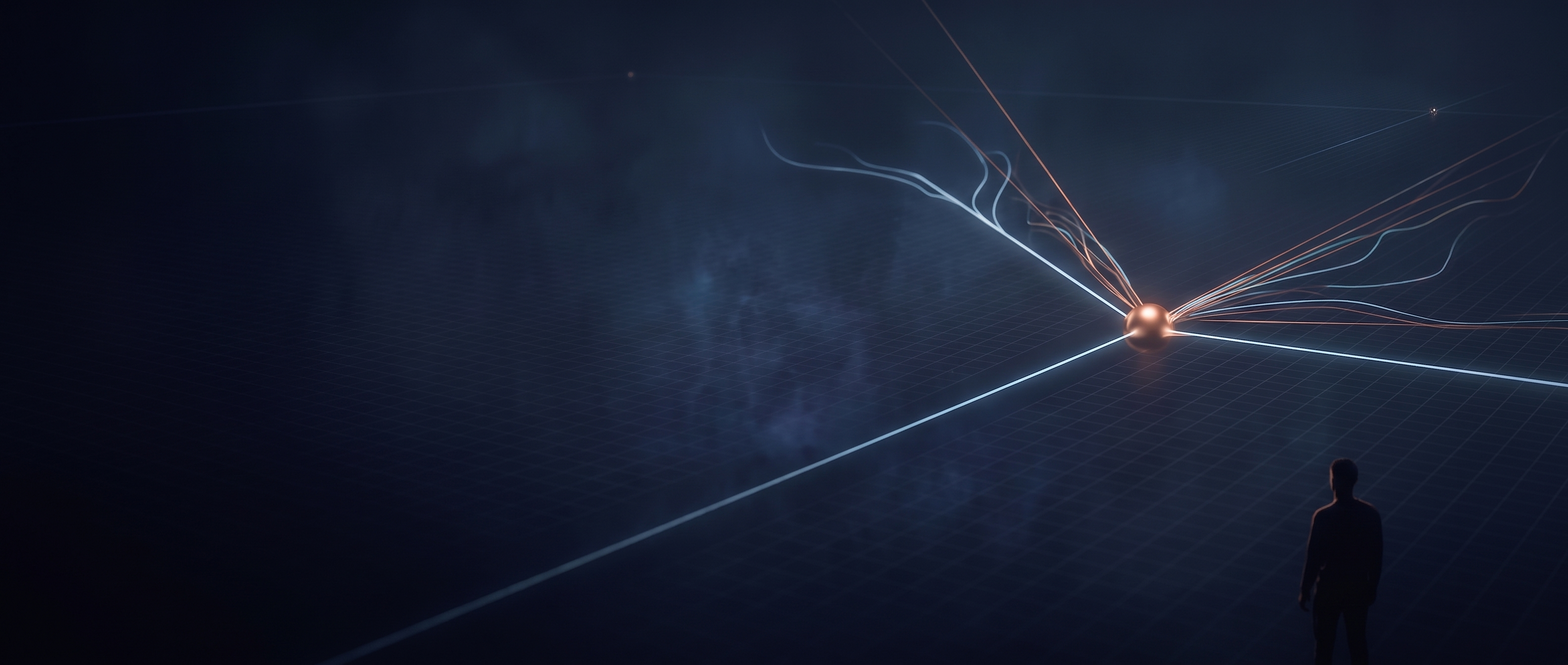
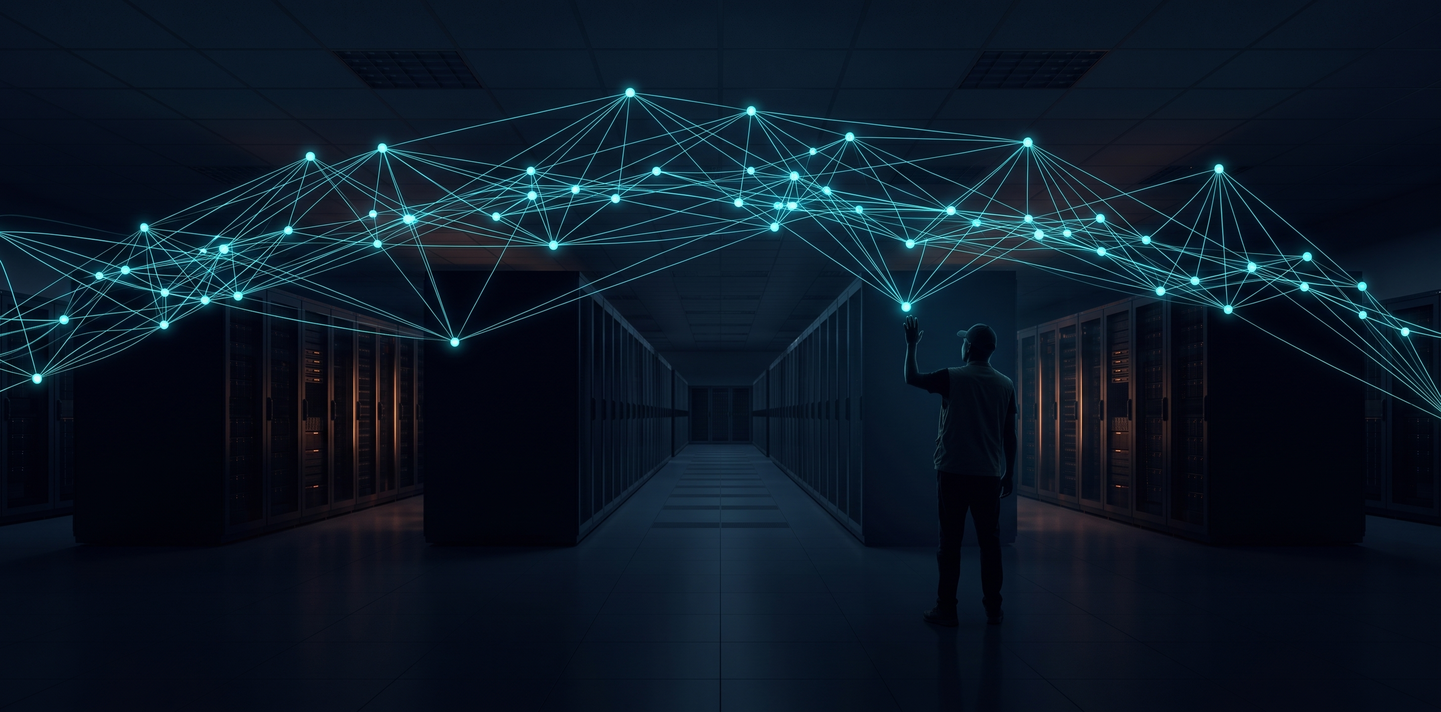
feat: 2:1 hero artwork, centred, firmer left overlay for copy contrast

diff --git a/apps/web/components/hero.tsx b/apps/web/components/hero.tsx
@@ -9,8 +9,8 @@ import { openPilotModal } from './pilot-scoping-modal'
 
 registerGsap()
 
-// 3168x1344 (2.36:1). Empty navy on the left for the copy, copper node at
-// ~73% across, small figure at ~86%. Rendered right-anchored and unscaled.
+// 2912x1440 (2.02:1). Network mesh across the full width, figure at ~67%.
+// Rendered centred and unscaled; the overlay carries the left-side contrast.
 const HERO_IMAGE = '/hero-redteam.jpg'
 
 const proof = [
@@ -118,23 +118,21 @@ export function Hero() {
     >
       <div className="absolute inset-0" aria-hidden="true">
         <div ref={imageRef} className="relative h-[108%] w-full will-change-transform">
-          {/* Artwork is 2.36:1 with the node at ~73% and the figure at ~86%.
-              On desktop a 16:9 viewport shows 75% of the width, so anchoring
-              right keeps node and figure in frame and trims only the empty
-              navy on the left, under the copy. On phones the slice is a fifth
-              of the image, so centre it on the node. */}
+          {/* Artwork is 2.02:1, the same shape the hero renders at on most
+              laptops, so it shows almost uncropped. Figure sits at ~67%; on
+              phones centre the slice on it. */}
           <Image
             src={HERO_IMAGE}
             alt=""
             fill
             priority
             sizes="100vw"
-            className="object-cover object-[80%_center] md:object-right"
+            className="object-cover object-[67%_center] md:object-center"
           />
         </div>
-        {/* Lighter than before: the image already carries the navy field, so the
-            overlay only guarantees copy contrast on the left and clears the right. */}
-        <div className="absolute inset-0 bg-[linear-gradient(105deg,rgba(15,24,41,0.88)_0%,rgba(15,24,41,0.7)_40%,rgba(18,32,58,0.25)_68%,rgba(18,32,58,0)_100%)]" />
+        {/* The mesh runs under the headline, so the left half is darkened firmly
+            for copy contrast and the overlay clears toward the figure on the right. */}
+        <div className="absolute inset-0 bg-[linear-gradient(105deg,rgba(15,24,41,0.94)_0%,rgba(15,24,41,0.82)_45%,rgba(18,32,58,0.3)_70%,rgba(18,32,58,0.05)_100%)]" />
         <div className="absolute inset-0 bg-[linear-gradient(to_top,rgba(15,24,41,0.7)_0%,transparent_40%)]" />
         <div ref={overlayRef} className="absolute inset-0 bg-ink opacity-0" />
       </div>
